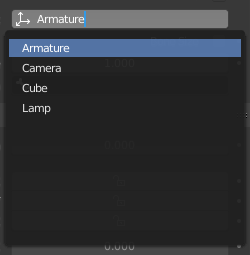
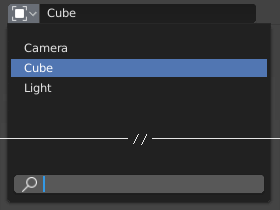
UI data-block: update screenshots del unused

diff --git a/manual/interface/controls/buttons/fields.rst b/manual/interface/controls/buttons/fields.rst
@@ -28,9 +28,9 @@ Number Fields
 
 Number fields store values and units.
 
-First type of number field shows triangles pointing left (◂) and right (▸)
-on the sides of the field when mouse pointer is on top of the field.
-Second field type sliders have a colored bar in the background
+First type of number field shows triangles pointing left (<) and right (>)
+on the sides of the field when mouse pointer is over the field.
+Sliders the second number field type have a colored bar in the background
 to illustrate value over a range, e.g. percentage values.
 
 The value can be edited in several ways:
@@ -42,7 +42,7 @@ Incremental Steps
 Dragging
    To change the value with mouse, hold down :kbd:`LMB` and drag to left or right.
 
-      Hold :kbd:`Ctrl` to snap to the discrete steps while dragging or :kbd:`Shift` for precision input.
+   Hold :kbd:`Ctrl` to snap to the discrete steps while dragging or :kbd:`Shift` for precision input.
 
 Keyboard Input
    Press :kbd:`LMB` or :kbd:`Return` to enter value by typing it with keyboard.

diff --git a/manual/interface/controls/templates/data_block.rst b/manual/interface/controls/templates/data_block.rst
@@ -52,11 +52,16 @@ Sometimes there is a :ref:`list <ui-list-view>` of applied data-blocks
 Preview
 =======
 
-In the Tool Shelf is a version of the data-block menu with a bigger preview.
-
 .. figure:: /images/interface_controls_templates_data-block_preview.png
+   :align: right
 
    The Data-Block menu with preview.
+
+In the Tool Settings is a version of the data-block menu with a bigger preview.
+
+.. container:: lead
+
+   .. clear
 
 
 .. rename to selector?
